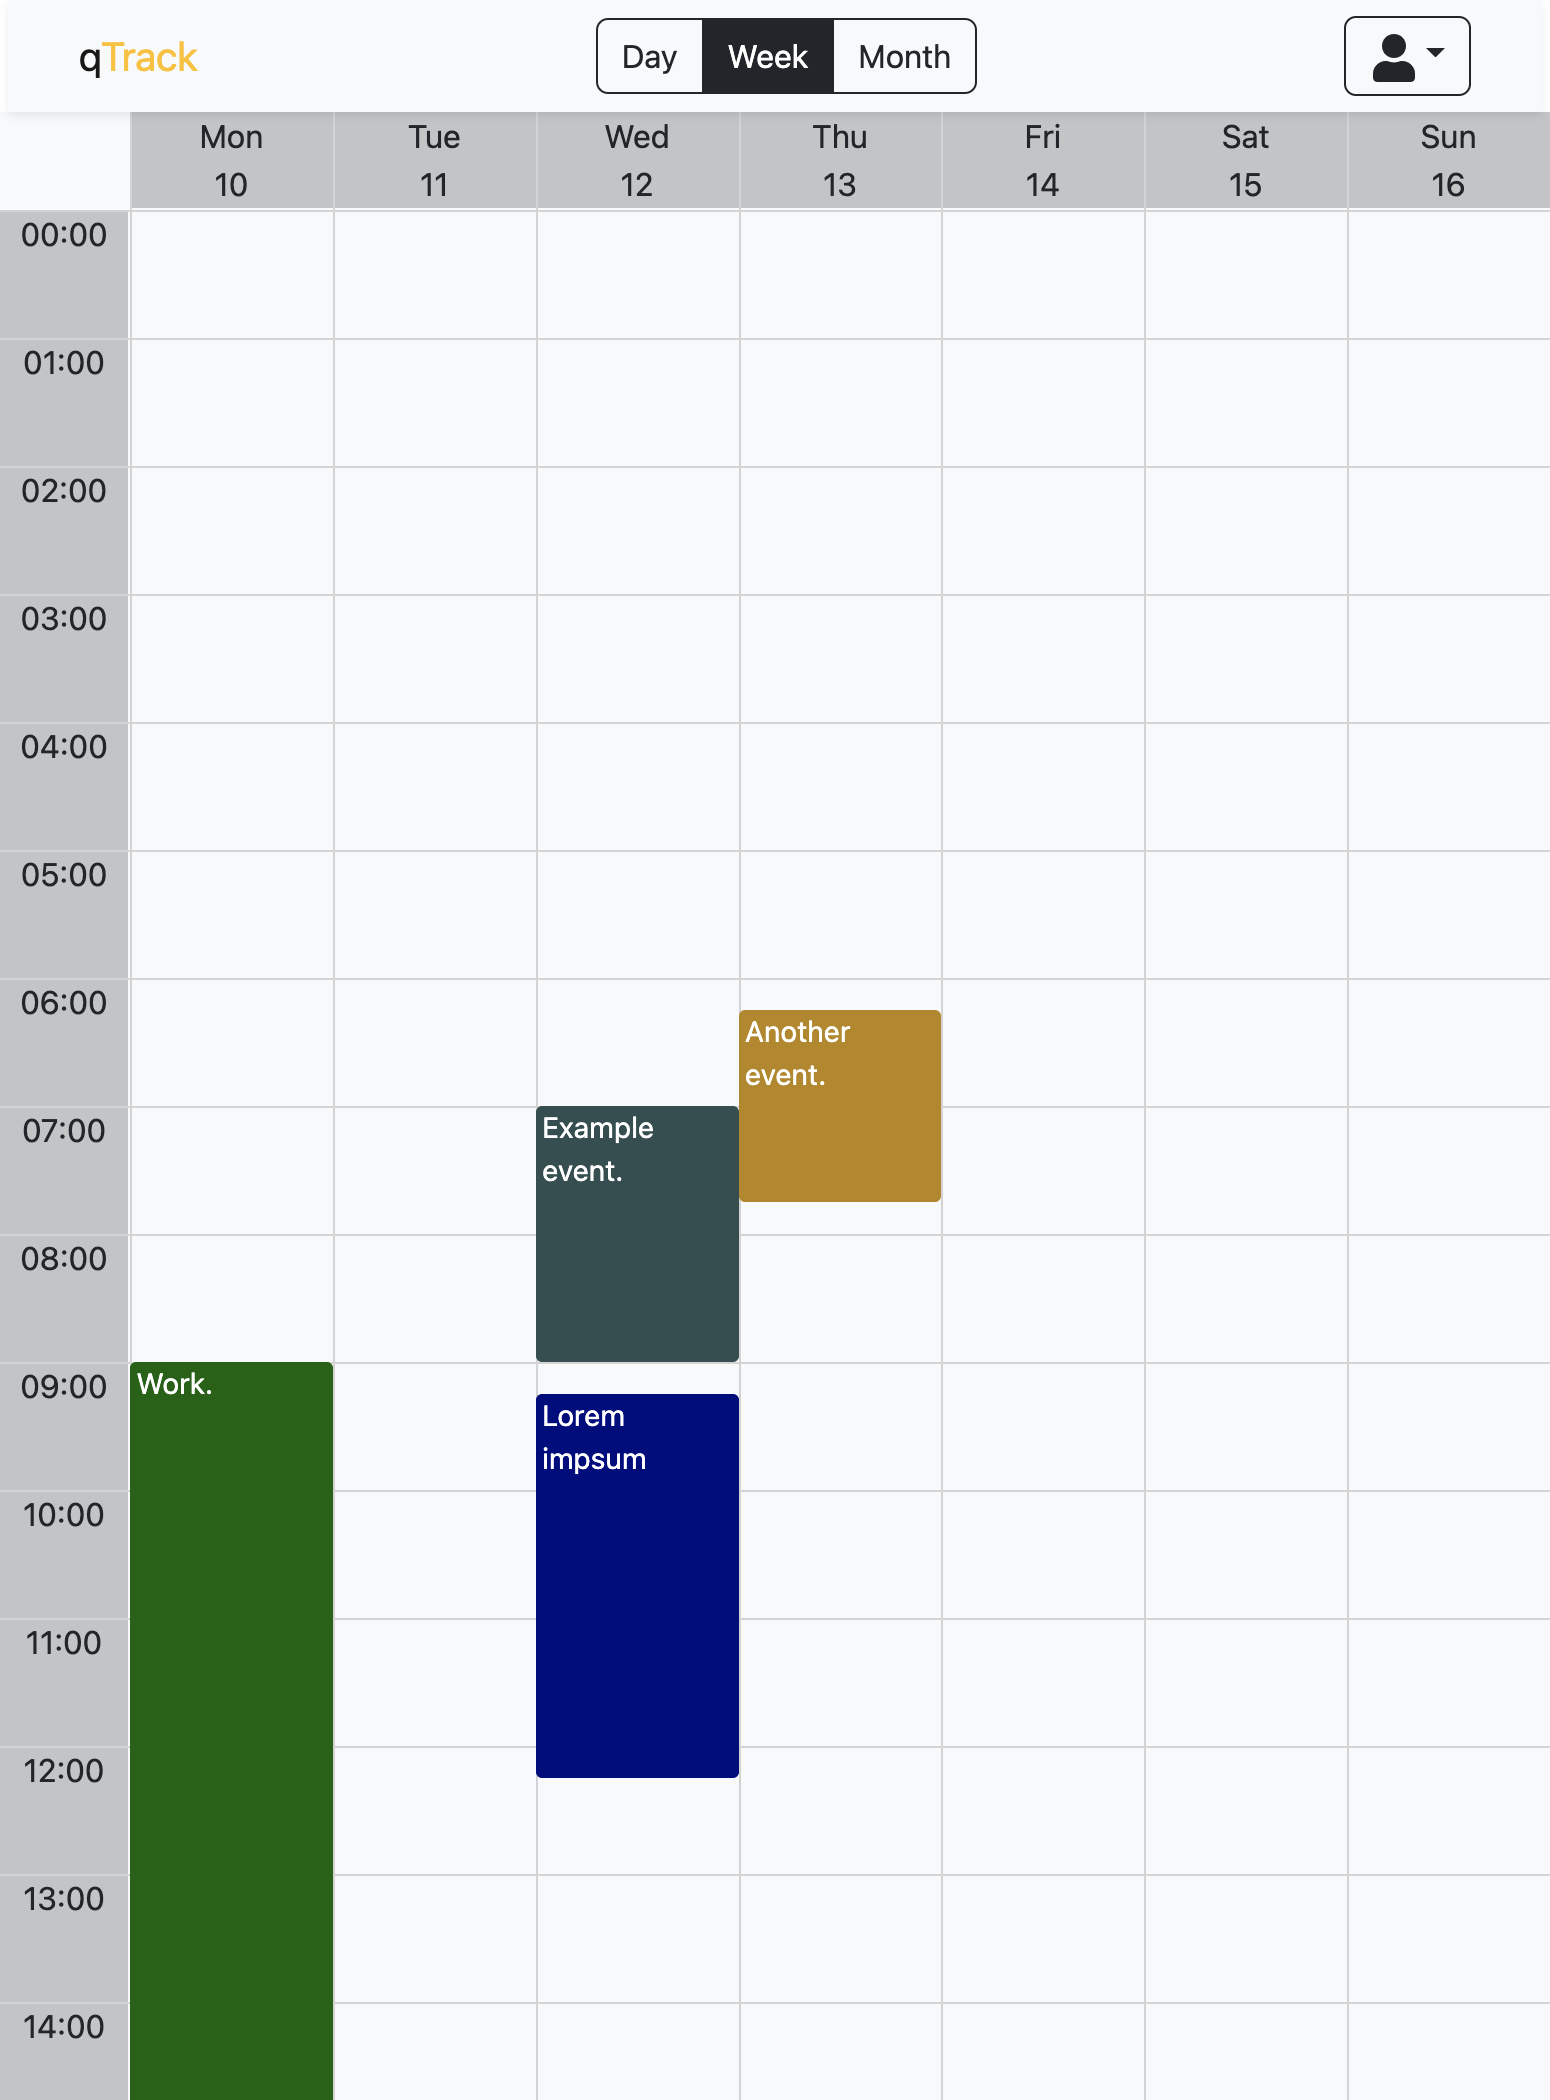
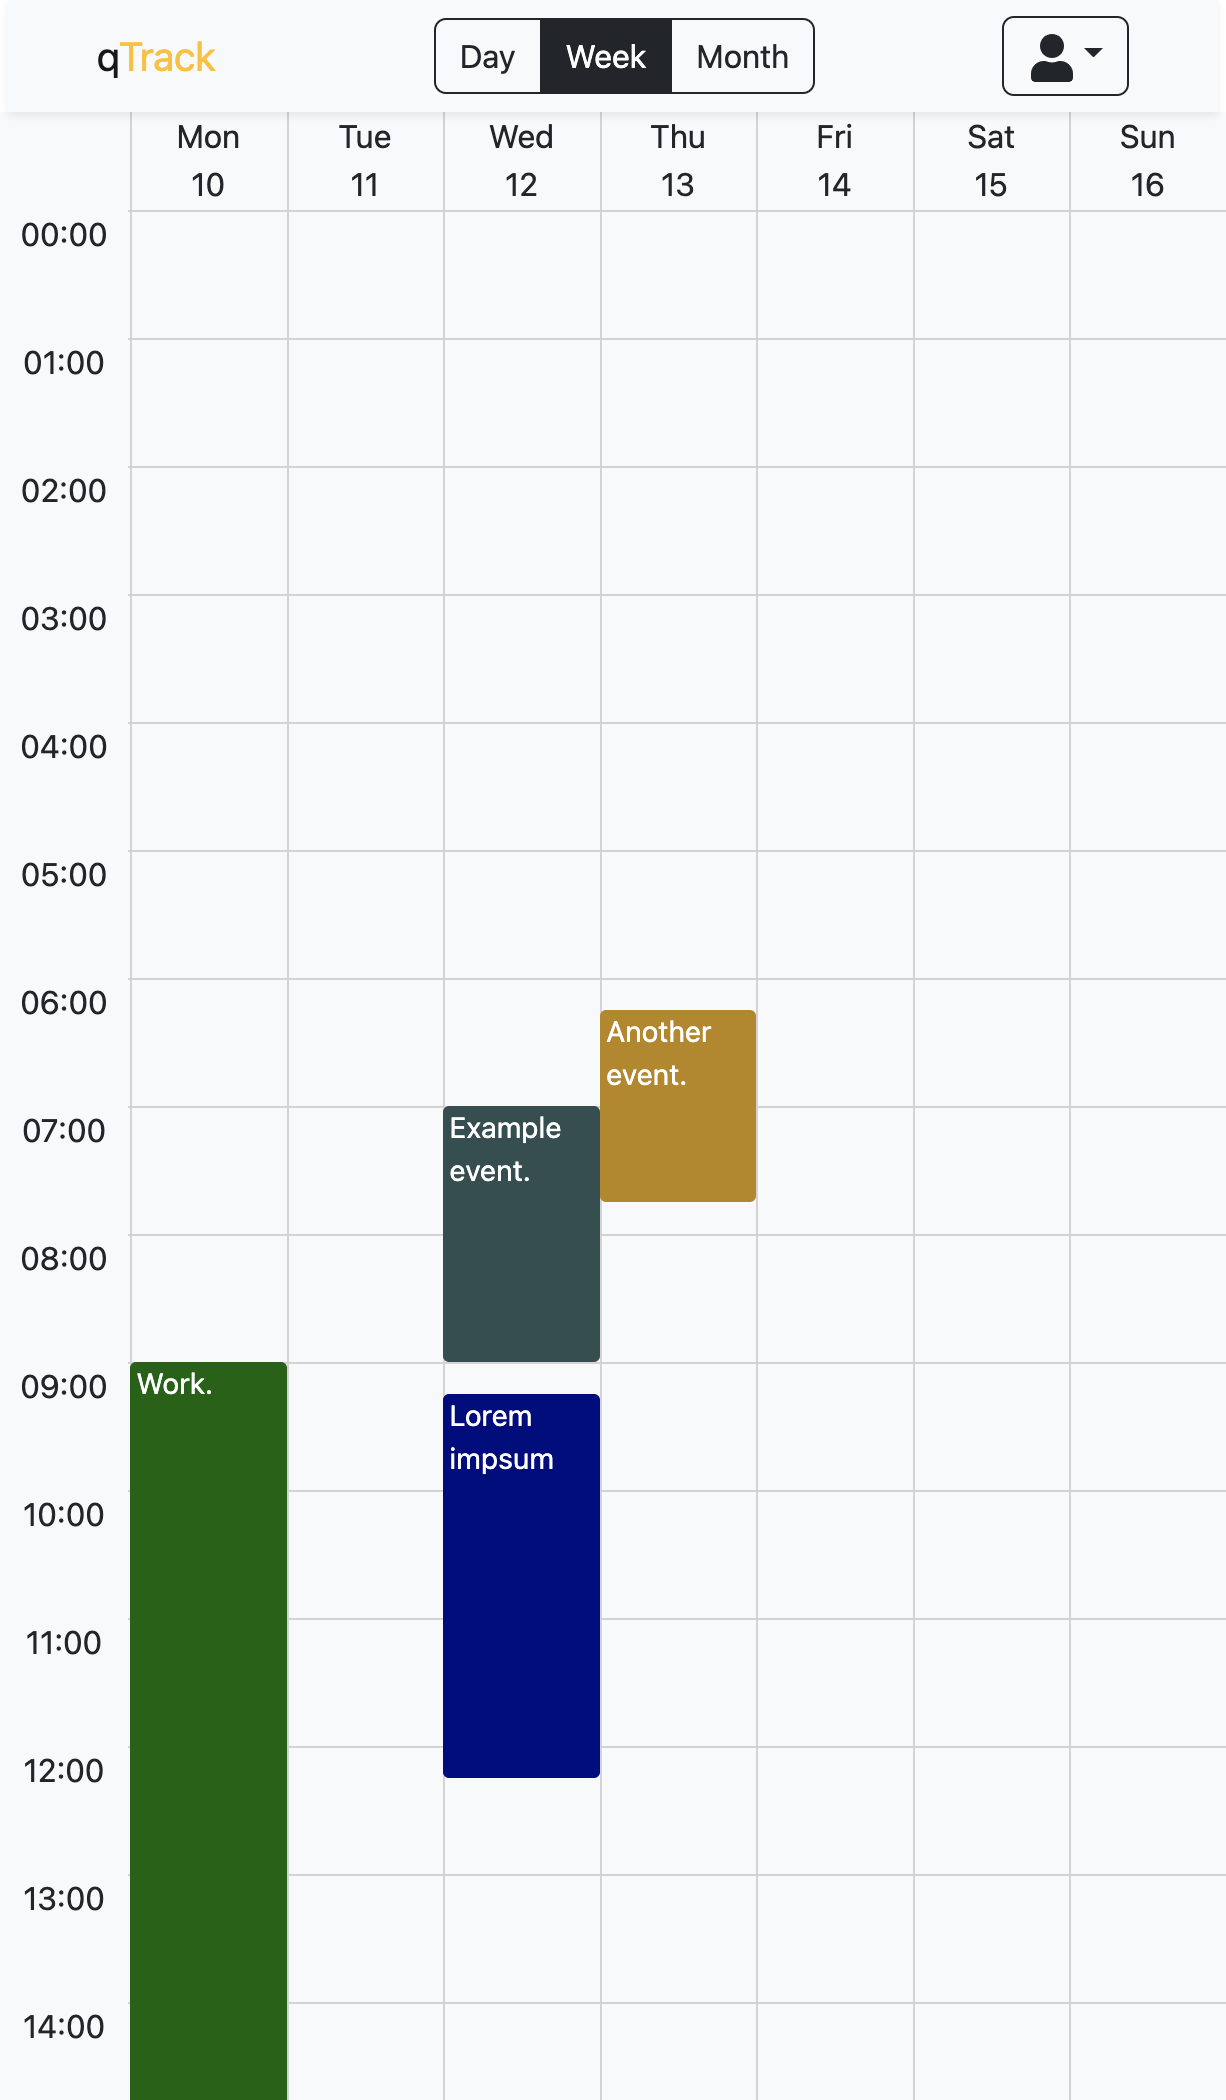
Small design improvements

Changed region(s): [[0.0, 0.0, 1.0, 1.0], [0.3409, 0.4643, 0.5579, 0.8667], [0.217, 0.65, 0.248, 1.0]]

diff --git a/frontend/src/pages/Week.tsx b/frontend/src/pages/Week.tsx
@@ -8,7 +8,7 @@ export const Week = (props: Props) => {
     return (
         <>
             <div className="week bg-light">
-                <div className="header bg-dark bg-opacity-25">
+                <div className="header">
                     <ul className="splitter">
                         <li></li>
                         <li></li>
@@ -40,7 +40,7 @@ export const Week = (props: Props) => {
                     </ul>
                 </div>
 
-                <div className="timeContainer bg-dark bg-opacity-25">
+                <div className="timeContainer">
                     <ul className="times">
                         <li>00:00</li>
                         <li>01:00</li>

diff --git a/frontend/src/App.css b/frontend/src/App.css
@@ -64,14 +64,15 @@ body {
 
 .times li {
     min-height: 4rem;
+    top: 0;
 }
 
 .times li::after {
     content: "";
     position: absolute;
-    left: 0;
+    left: 4rem;
     height: 1px;
-    width: 100%;
+    width: calc(100% - 4rem);
     background-color: lightgray;
     z-index: 1;
 }

diff --git a/README.md b/README.md
@@ -1,7 +1,11 @@
 # qTrack
+
 A time tracking & calendar application.
 
-### Week View v1
+### Week View & Home View v1
 <kbd>
 <img src="week_view_example.png" width="300px" alt="Main View">
+</kbd>
+<kbd>
+<img src="home_view.png" width="300px" alt="Main View">
 </kbd>
